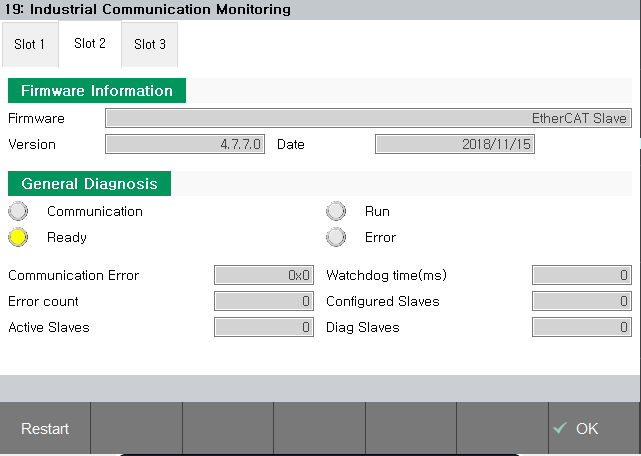
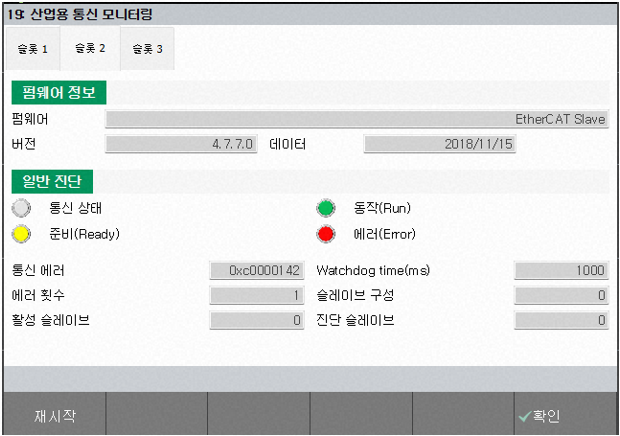
CIFX PCI EtherCAT Slave 설정 매뉴얼 추가 및 단어 수정

Changed region(s): [[0.0, 0.0, 1.0, 1.0], [0.3371, 0.5665, 0.7048, 0.7752], [0.4903, 0.4472, 0.6742, 0.5665]]

diff --git a/1-cifx-pci-communication/3-cifx-pci-settings-industrial-communication/5-EtherCAT/4-Settings-EtherCAT-Slave.md b/1-cifx-pci-communication/3-cifx-pci-settings-industrial-communication/5-EtherCAT/4-Settings-EtherCAT-Slave.md
@@ -1,7 +1,5 @@
 #### 1.3.5.4 EtherCAT Slave 설정
 
-매뉴얼 준비중입니다.
-
 <br>
 
 {% hint style="info" %}
@@ -9,3 +7,64 @@
 
    - "[6. Slave 장치 설명 파일](../../../6-slave-config-file.md)" 참고해 주십시오.
 {% endhint %}
+
+<br>
+
+"[1.3.1 CIFX PCI 슬롯 설정](../../../1-cifx-pci-communication/3-cifx-pci-settings-industrial-communication/1-Settings-firmware.md)" 절차를 따라 설정 이후 아래 방법을 진행해 주십시오.
+
+<br>
+
+**1. TP를 이용하여 산업용 통신 PCI 슬롯 설정에서 EtherCAT Slave를 선택하고 로봇 제어기를 재부팅합니다.**
+
+![[그림 1.3.9.2-1 PCI 슬롯 설정]](<../../../_assets/1-cifx-pci-communication/3-cifx-pci-settings-industrial-communication/5-EtherCAT/4-Slave_setting/image_1.png>) 
+
+<br>
+
+**2. 산업용 통신 모니터링에서 현재 선택되어 있는 통신 Protocol 준비 상태를 확인합니다.**
+
+![[그림 1.3.9.4-2 산업용 통신 모니터링]](<../../../_assets/1-cifx-pci-communication/3-cifx-pci-settings-industrial-communication/5-EtherCAT/4-Slave_setting/image_2.png>) 
+
+<br>
+
+{% hint style="warning" %}
+**\[주의]**: Sycon.net 으로 설정한 Configuration 파일이 해당 PCI 슬롯에 Download 되어 있는 경우 TP의 설정 값을 무시하게 됩니다.
+{% endhint %}
+
+<br>
+
+**3. 메뉴를 터치하여 슬레이브 설정 화면으로 진입 합니다.**
+
+**\[시스템 > 2: 제어 파라미터 > 11: 산업용 통신 > 2: PCI 슬롯 통신 설정 >  EtherCAT Slave]**
+
+![[그림 1.3.9.4-3 슬레이브 설정]](<../../../_assets/1-cifx-pci-communication/3-cifx-pci-settings-industrial-communication/5-EtherCAT/4-Slave_setting/image_3.png>) 
+
+![[그림 1.3.9.4-4 슬레이브 설정]](<../../../_assets/1-cifx-pci-communication/3-cifx-pci-settings-industrial-communication/5-EtherCAT/4-Slave_setting/image_4.png>) 
+
+<br>
+
+**4. 각 항목별 설명**
+
+{% hint style="info" %}
+   [IO 종류 및 크기]   
+   - TxPDO: 슬레이브 -> 마스터   
+   - RxPDO: 마스터 -> 슬레이브   
+   - 최대 크기: 256 bytes   
+{% endhint %}
+
+<br>
+
+**5. 설정 완료 후 아래 절차에 따라 통신 상태를 확인하여 주십시오.**
+
+TP 에서 산업용 통신 상태를 확인하는 절차는 ("[1.4 CIFX PCI 통신 모니터링](../../../1-cifx-pci-communication/4-cifx-pci-monitoring-industrial-communication/README.md)")참고해 주십시오.
+
+<br>
+
+**6. 통신 설정 완료 후 IO Block 을 할당합니다.**
+
+{% hint style="info" %}
+   **통신 설정 완료 후 IO Block 을 할당하여 입출력 신호를 사용할 수 있습니다.  ("[5. 산업용 통신 IO 읽기 및 쓰기](../../../5-io-block-allocation.md)")를 확인해 주십시오.**
+{% endhint %}
+
+<br>
+
+![[그림 1.3.9.4-5 산업용 통신 모니터링]](<../../../_assets/1-cifx-pci-communication/3-cifx-pci-settings-industrial-communication/5-EtherCAT/4-Slave_setting/image_5.png>) 

diff --git a/1-cifx-pci-communication/3-cifx-pci-settings-industrial-communication/9-CC-Link-IE-Field/2-Settings-CC-Link-IE-Field-Slave.md b/1-cifx-pci-communication/3-cifx-pci-settings-industrial-communication/9-CC-Link-IE-Field/2-Settings-CC-Link-IE-Field-Slave.md
@@ -5,9 +5,9 @@
 
 <br>
 
-**1. TP를 이용하여 산업용 통신 펌웨어 설정에서 CC-Link IE Field Slave를 선택하고 로봇 제어기를 재부팅합니다.**
+**1. TP를 이용하여 산업용 통신 PCI 슬롯 설정에서 CC-Link IE Field Slave를 선택하고 로봇 제어기를 재부팅합니다.**
 
-![[그림 1.3.9.2-1 펌웨어 설정]](<../../../_assets/1-cifx-pci-communication/3-cifx-pci-settings-industrial-communication/9-CC-Link-IE-Field/4-Slave_setting/image_1.png>) 
+![[그림 1.3.9.2-1 PCI 슬롯 설정]](<../../../_assets/1-cifx-pci-communication/3-cifx-pci-settings-industrial-communication/9-CC-Link-IE-Field/4-Slave_setting/image_1.png>) 
 
 <br>
 
@@ -25,7 +25,7 @@
 
 **3. 메뉴를 터치하여 슬레이브 설정 화면으로 진입 합니다.**
 
-**\[시스템 > 2: 제어 파라미터 > 11: 산업용 통신 > 2: PCI 슬레이브 슬롯 설정 >  CC-Link IE Field Slave]**
+**\[시스템 > 2: 제어 파라미터 > 11: 산업용 통신 > 2: PCI 슬롯 통신 설정 >  CC-Link IE Field Slave]**
 
 ![[그림 1.3.9.4-3 슬레이브 설정]](<../../../_assets/1-cifx-pci-communication/3-cifx-pci-settings-industrial-communication/9-CC-Link-IE-Field/4-Slave_setting/image_3.png>) 
 

diff --git a/1-cifx-pci-communication/3-cifx-pci-settings-industrial-communication/10-EtherNet-IP-Remote-IO/1-Settings-EtherNet-IP-Remote-IO.md b/1-cifx-pci-communication/3-cifx-pci-settings-industrial-communication/10-EtherNet-IP-Remote-IO/1-Settings-EtherNet-IP-Remote-IO.md
@@ -4,9 +4,9 @@
 
 <br>
 
-**1. 산업용 통신 펌웨어 설정에서 EtherNet/IP Master를 선택하고 로봇 제어기를 재부팅합니다.**
+**1. 산업용 통신 PCI 슬롯 설정에서 EtherNet/IP Master를 선택하고 로봇 제어기를 재부팅합니다.**
 
-![그림 1.3.10.1-1 펌웨어 설정](<../../../_assets/1-cifx-pci-communication/3-cifx-pci-settings-industrial-communication/10-EtherNet-IP-Remote-IO/1-Setting/image_1.png>) 
+![그림 1.3.10.1-1 PCI 슬롯 설정](<../../../_assets/1-cifx-pci-communication/3-cifx-pci-settings-industrial-communication/10-EtherNet-IP-Remote-IO/1-Setting/image_1.png>) 
 
 <br>
 
@@ -45,7 +45,7 @@
 <br>
 
 **4. 메뉴를 터치하여 슬레이브 설정 화면으로 진입 합니다.**
-**\[시스템 > 2: 제어 파라미터 > 11: 산업용 통신 > 2: PCI 슬레이브 슬롯 설정 >  EtherNet/IP Remote IO Setting]**
+**\[시스템 > 2: 제어 파라미터 > 11: 산업용 통신 > 2: PCI 슬롯 통신 설정 >  EtherNet/IP Remote IO Setting]**
 
 ![그림 1.3.10.1-5 슬레이브 설정](<../../../_assets/1-cifx-pci-communication/3-cifx-pci-settings-industrial-communication/10-EtherNet-IP-Remote-IO/1-Setting/image_5.png>) 
 

diff --git a/1-cifx-pci-communication/3-cifx-pci-settings-industrial-communication/3-EtherNet-IP/4-Settings-EtherNet-IP-Adapter.md b/1-cifx-pci-communication/3-cifx-pci-settings-industrial-communication/3-EtherNet-IP/4-Settings-EtherNet-IP-Adapter.md
@@ -12,9 +12,9 @@
 
 <br>
 
-**1. TP를 이용하여 산업용 통신 펌웨어 설정에서 EtherNet/IP Slave를 선택하고 로봇 제어기를 재부팅합니다.**
+**1. TP를 이용하여 산업용 통신 PCI 슬롯 설정에서 EtherNet/IP Slave를 선택하고 로봇 제어기를 재부팅합니다.**
 
-![[그림 1.3.3.4-1 펌웨어 설정]](<../../../_assets/1-cifx-pci-communication/3-cifx-pci-settings-industrial-communication/3-EtherNet-IP/4-Slave_setting/image_1.png>) 
+![[그림 1.3.3.4-1 PCI 슬롯 설정]](<../../../_assets/1-cifx-pci-communication/3-cifx-pci-settings-industrial-communication/3-EtherNet-IP/4-Slave_setting/image_1.png>) 
 
 <br>
 
@@ -32,7 +32,7 @@
 
 **3. 메뉴를 터치하여 슬레이브 설정 화면으로 진입 합니다.**
 
-**\[시스템 > 2: 제어 파라미터 > 11: 산업용 통신 > 2: PCI 슬레이브 슬롯 설정 >  EtherNet/IP Slave]**
+**\[시스템 > 2: 제어 파라미터 > 11: 산업용 통신 > 2: PCI 슬롯 통신 설정 >  EtherNet/IP Slave]**
 
 ![[그림 1.3.3.4-3 슬레이브 설정]](<../../../_assets/1-cifx-pci-communication/3-cifx-pci-settings-industrial-communication/3-EtherNet-IP/4-Slave_setting/image_3.png>) 
 

diff --git a/1-cifx-pci-communication/3-cifx-pci-settings-industrial-communication/4-PROFINET-IO/4-Settings-PROFINET-IO-Device.md b/1-cifx-pci-communication/3-cifx-pci-settings-industrial-communication/4-PROFINET-IO/4-Settings-PROFINET-IO-Device.md
@@ -12,9 +12,9 @@
 
 <br>
 
-**1. TP를 이용하여 산업용 통신 펌웨어 설정에서 PROFINET IO Slave를 선택하고 로봇 제어기를 재부팅합니다.**
+**1. TP를 이용하여 산업용 통신 PCI 슬롯 설정에서 PROFINET IO Slave를 선택하고 로봇 제어기를 재부팅합니다.**
 
-![[그림 1.3.4.4-1 펌웨어 설정]](<../../../_assets/1-cifx-pci-communication/3-cifx-pci-settings-industrial-communication/4-PROFINET-IO/4-Slave_setting/image_1.png>) 
+![[그림 1.3.4.4-1 PCI 슬롯 설정]](<../../../_assets/1-cifx-pci-communication/3-cifx-pci-settings-industrial-communication/4-PROFINET-IO/4-Slave_setting/image_1.png>) 
 
 <br>
 
@@ -32,7 +32,7 @@
 
 **3. 메뉴를 터치하여 슬레이브 설정 화면으로 진입 합니다.**
 
-**\[시스템 > 2: 제어 파라미터 > 11: 산업용 통신 > 2: PCI 슬레이브 슬롯 설정 >  PROFINET IO Slave]**
+**\[시스템 > 2: 제어 파라미터 > 11: 산업용 통신 > 2: PCI 슬롯 통신 설정 >  PROFINET IO Slave]**
 
 ![[그림 1.3.4.4-3 슬레이브 설정]](<../../../_assets/1-cifx-pci-communication/3-cifx-pci-settings-industrial-communication/4-PROFINET-IO/4-Slave_setting/image_3.png>) 
 

diff --git a/1-cifx-pci-communication/3-cifx-pci-settings-industrial-communication/6-PROFIBUS-DP/4-Settings-PROFIBUS-DP-Slave.md b/1-cifx-pci-communication/3-cifx-pci-settings-industrial-communication/6-PROFIBUS-DP/4-Settings-PROFIBUS-DP-Slave.md
@@ -12,9 +12,9 @@
 
 <br>
 
-**1. TP를 이용하여 산업용 통신 펌웨어 설정에서 PROFIBUS-DP Slave를 선택하고 로봇 제어기를 재부팅합니다.**
+**1. TP를 이용하여 산업용 통신 PCI 슬롯 설정에서 PROFIBUS-DP Slave를 선택하고 로봇 제어기를 재부팅합니다.**
 
-![[그림 1.3.6.4-1 펌웨어 설정]](<../../../_assets/1-cifx-pci-communication/3-cifx-pci-settings-industrial-communication/6-PROFIBUS-DP/4-Slave_setting/image_1.png>) 
+![[그림 1.3.6.4-1 PCI 슬롯 설정]](<../../../_assets/1-cifx-pci-communication/3-cifx-pci-settings-industrial-communication/6-PROFIBUS-DP/4-Slave_setting/image_1.png>) 
 
 <br>
 
@@ -32,7 +32,7 @@
 
 **3. 메뉴를 터치하여 슬레이브 설정 화면으로 진입 합니다.**
 
-**\[시스템 > 2: 제어 파라미터 > 11: 산업용 통신 > 2: PCI 슬레이브 슬롯 설정 >  PROFIBUS-DP Slave]**
+**\[시스템 > 2: 제어 파라미터 > 11: 산업용 통신 > 2: PCI 슬롯 통신 설정 >  PROFIBUS-DP Slave]**
 
 ![[그림 1.3.6.4-3 슬레이브 설정]](<../../../_assets/1-cifx-pci-communication/3-cifx-pci-settings-industrial-communication/6-PROFIBUS-DP/4-Slave_setting/image_3.png>) 
 

diff --git a/1-cifx-pci-communication/3-cifx-pci-settings-industrial-communication/7-DeviceNet/4-Settings-DeviceNet-Slave.md b/1-cifx-pci-communication/3-cifx-pci-settings-industrial-communication/7-DeviceNet/4-Settings-DeviceNet-Slave.md
@@ -20,9 +20,9 @@
 
 <br>
 
-**1. TP를 이용하여 산업용 통신 펌웨어 설정에서 DeviceNet Slave를 선택하고 로봇 제어기를 재부팅합니다.**
+**1. TP를 이용하여 산업용 통신 PCI 슬롯 설정에서 DeviceNet Slave를 선택하고 로봇 제어기를 재부팅합니다.**
 
-![[그림 1.3.7.4-1 펌웨어 설정]](<../../../_assets/1-cifx-pci-communication/3-cifx-pci-settings-industrial-communication/7-DeviceNet/4-Slave_setting/image_1.png>) 
+![[그림 1.3.7.4-1 PCI 슬롯 설정]](<../../../_assets/1-cifx-pci-communication/3-cifx-pci-settings-industrial-communication/7-DeviceNet/4-Slave_setting/image_1.png>) 
 
 <br>
 
@@ -40,7 +40,7 @@
 
 **3. 메뉴를 터치하여 슬레이브 설정 화면으로 진입 합니다.**
 
-**\[시스템 > 2: 제어 파라미터 > 11: 산업용 통신 > 2: PCI 슬레이브 슬롯 설정 >  DeviceNet Slave]**
+**\[시스템 > 2: 제어 파라미터 > 11: 산업용 통신 > 2: PCI 슬롯 통신 설정 >  DeviceNet Slave]**
 
 ![[그림 1.3.7.4-3 슬레이브 설정]](<../../../_assets/1-cifx-pci-communication/3-cifx-pci-settings-industrial-communication/7-DeviceNet/4-Slave_setting/image_3.png>) 
 

diff --git a/1-cifx-pci-communication/3-cifx-pci-settings-industrial-communication/8-CC-Link/2-Settings-CC-Link-Slave.md b/1-cifx-pci-communication/3-cifx-pci-settings-industrial-communication/8-CC-Link/2-Settings-CC-Link-Slave.md
@@ -12,9 +12,9 @@
 
 <br>
 
-**1. TP를 이용하여 산업용 통신 펌웨어 설정에서 CC-Link Slave를 선택하고 로봇 제어기를 재부팅합니다.**
+**1. TP를 이용하여 산업용 통신 PCI 슬롯 설정에서 CC-Link Slave를 선택하고 로봇 제어기를 재부팅합니다.**
 
-![[그림 1.3.8.4-1 펌웨어 설정]](<../../../_assets/1-cifx-pci-communication/3-cifx-pci-settings-industrial-communication/8-CC-Link/4-Slave_setting/image_1.png>) 
+![[그림 1.3.8.4-1 PCI 슬롯 설정]](<../../../_assets/1-cifx-pci-communication/3-cifx-pci-settings-industrial-communication/8-CC-Link/4-Slave_setting/image_1.png>) 
 
 <br>
 
@@ -32,7 +32,7 @@
 
 **3. 메뉴를 터치하여 슬레이브 설정 화면으로 진입 합니다.**
 
-**\[시스템 > 2: 제어 파라미터 > 11: 산업용 통신 > 2: PCI 슬레이브 슬롯 설정 >  CC-Link Slave]**
+**\[시스템 > 2: 제어 파라미터 > 11: 산업용 통신 > 2: PCI 슬롯 통신 설정 >  CC-Link Slave]**
 
 ![[그림 1.3.8.4-3 슬레이브 설정]](<../../../_assets/1-cifx-pci-communication/3-cifx-pci-settings-industrial-communication/8-CC-Link/4-Slave_setting/image_3.png>) 
 

diff --git a/1-cifx-pci-communication/4-cifx-pci-monitoring-industrial-communication/README.md b/1-cifx-pci-communication/4-cifx-pci-monitoring-industrial-communication/README.md
@@ -10,14 +10,14 @@
 
 <br>
 
-**\[서비스 > 19: 산업용 통신 모니터링]** 을 터치하여 들어갈 수 있으며, 해당 화면에서 설정한 펌웨어 정보, 통신 상태, 통신 구성 상태 등을 확인 가능합니다.
+**\[서비스 > 19: 산업용 통신 모니터링]** 을 터치하여 들어갈 수 있으며, 해당 화면에서 설정한 PCI 슬롯 정보, 통신 상태, 통신 구성 상태 등을 확인 가능합니다.
 
 <br>
 
 {% hint style="info" %}
    **\[재시작]** 버튼을 이용하여 해당 PCI 통신 카드의 산업용 통신을 재시작 시킬 수 있습니다.
 
-   - 슬롯, 펌웨어, 장치 상태를 확인해 주십시오.
+   - 슬롯, PCI 슬롯, 장치 상태를 확인해 주십시오.
 
    - Master의 경우 슬레이브 구성 및 활성 슬레이가 구성한 슬레이브 수와 동일한지 확인해 주십시오.
 {% endhint %}
